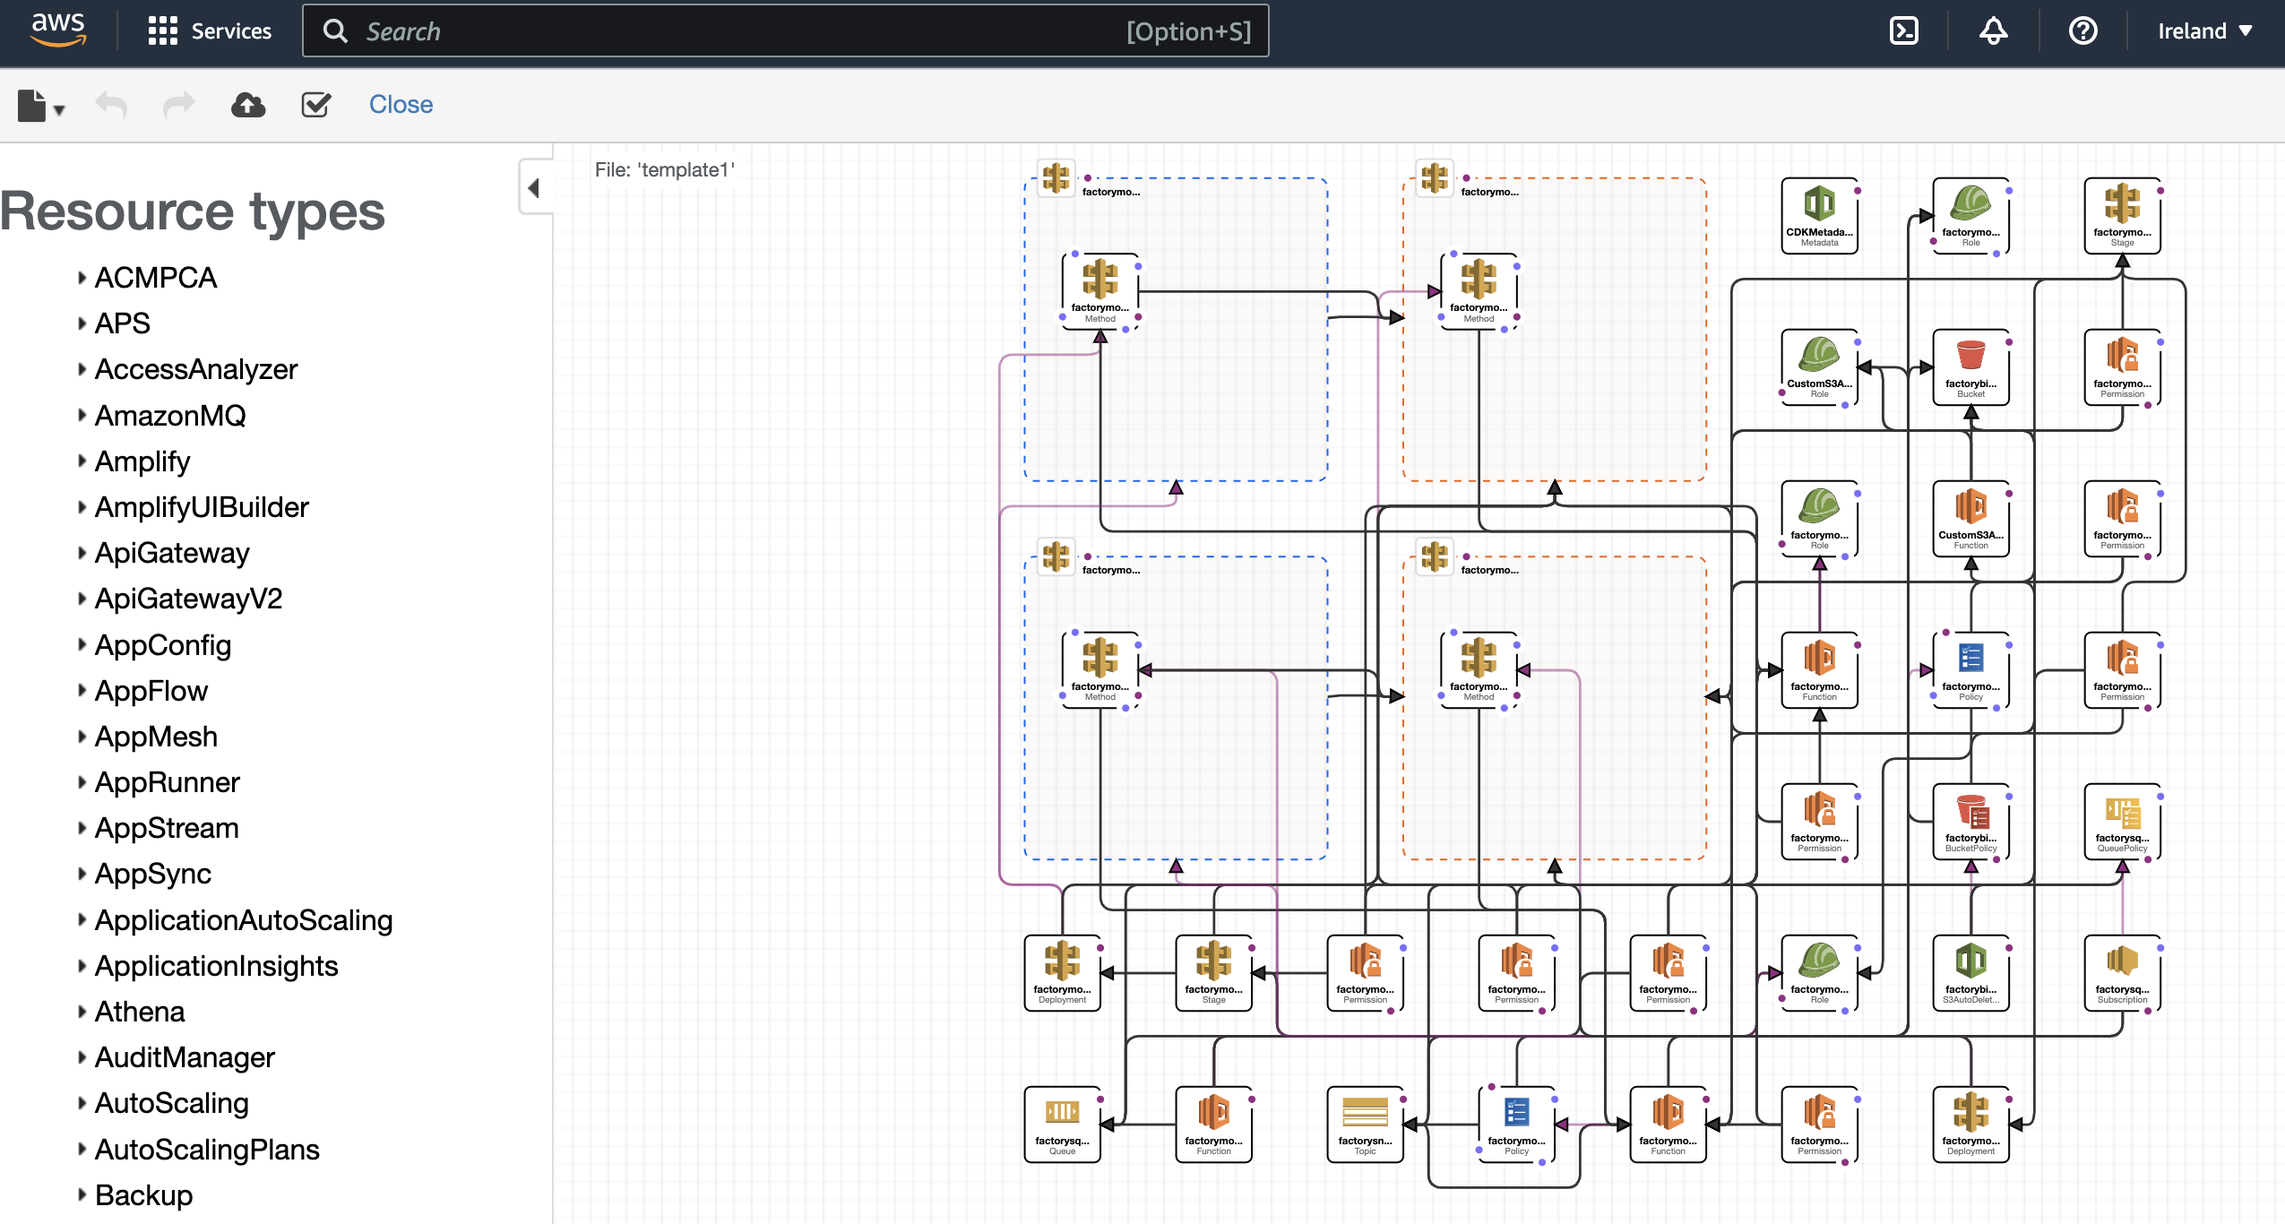
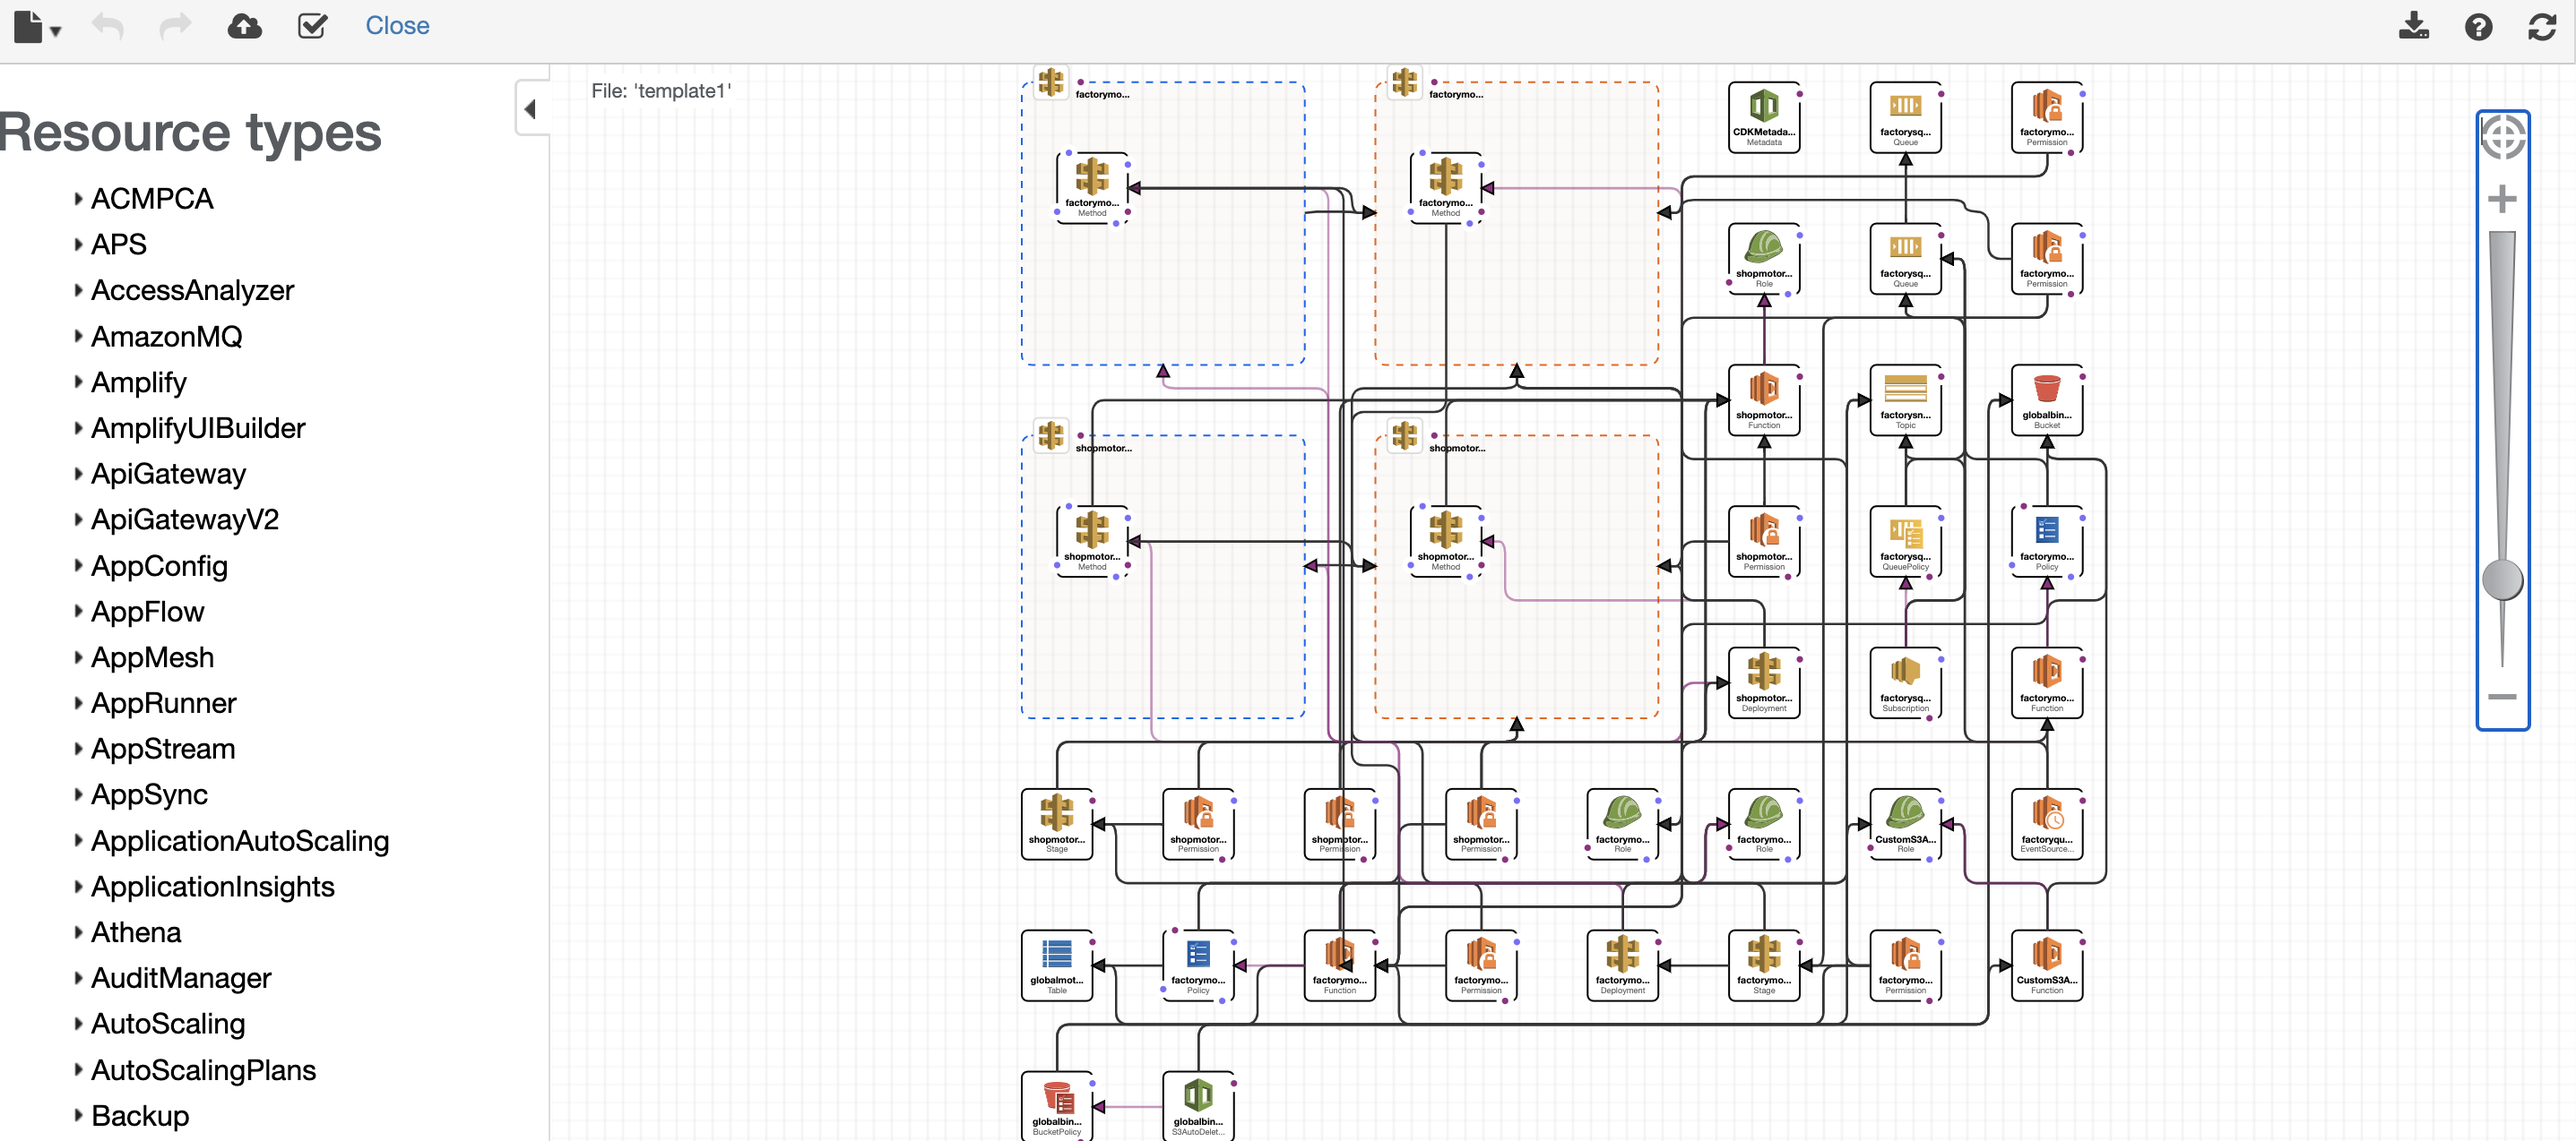
Add DynamoDB

diff --git a/motorshop-cdk/lib/motorshop-cdk-stack.ts b/motorshop-cdk/lib/motorshop-cdk-stack.ts
@@ -1,24 +1,43 @@
 import * as cdk from 'aws-cdk-lib';
-import {RemovalPolicy} from 'aws-cdk-lib';
+import {CfnOutput, RemovalPolicy} from 'aws-cdk-lib';
 import {Construct} from 'constructs';
 import * as s3 from 'aws-cdk-lib/aws-s3'
-import {RustFunction} from "rust.aws-cdk-lambda";
-import {EndpointType, LambdaRestApi} from "aws-cdk-lib/aws-apigateway";
+import {RustFunction} from 'rust.aws-cdk-lambda';
+import {EndpointType, LambdaRestApi} from 'aws-cdk-lib/aws-apigateway';
 import {Queue} from 'aws-cdk-lib/aws-sqs';
-import {Topic} from "aws-cdk-lib/aws-sns";
-import {SqsSubscription} from "aws-cdk-lib/aws-sns-subscriptions";
-import {EventSourceMapping} from "aws-cdk-lib/aws-lambda";
-import {PolicyStatement} from "aws-cdk-lib/aws-iam";
-
+import {Topic} from 'aws-cdk-lib/aws-sns';
+import {SqsSubscription} from 'aws-cdk-lib/aws-sns-subscriptions';
+import {EventSourceMapping} from 'aws-cdk-lib/aws-lambda';
+import {PolicyStatement} from 'aws-cdk-lib/aws-iam';
+import {aws_dynamodb as ddb} from 'aws-cdk-lib';
 export class MotorshopCdkStack extends cdk.Stack {
     constructor(scope: Construct, id: string, props?: cdk.StackProps) {
         super(scope, id, props);
 
         /**
+         * GLOBAL
+         */
+        const global = new Construct(this, 'global');
+        const bucket = new s3.Bucket(global, 'bindstone-motorshop-bucket',
+            {
+                bucketName: 'bindstone-motorshop-bucket',
+                removalPolicy: RemovalPolicy.DESTROY,
+                autoDeleteObjects: true,
+            });
+
+        const dynamo_db = new ddb.Table(global, 'motorshop-dynamo-db', {
+            tableName:'motorshop-dynamo-db',
+            partitionKey: { name: 'table_key', type: ddb.AttributeType.STRING },
+            sortKey: { name: 'data_key', type: ddb.AttributeType.STRING },
+            billingMode: ddb.BillingMode.PAY_PER_REQUEST,
+            removalPolicy: RemovalPolicy.DESTROY,
+        });
+
+        /**
          * FACTORY
          */
             // https://github.com/aws-samples/serverless-patterns/blob/main/sns-sqs-lambda-cdk/src/lib/sns-sqs-lambda-cdk.ts
-        const factory = new Construct(this, "factory");
+        const factory = new Construct(this, 'factory');
 
         const snsModelDesign = new Topic(factory, 'sns-model-design', {
             topicName: 'sns-model-design',
@@ -45,13 +64,6 @@ export class MotorshopCdkStack extends cdk.Stack {
             rawMessageDelivery: true
         }));
 
-        const bucket = new s3.Bucket(factory, 'bindstone-motorshop-bucket',
-            {
-                bucketName: 'bindstone-motorshop-bucket',
-                removalPolicy: RemovalPolicy.DESTROY,
-                autoDeleteObjects: true,
-            });
-
         let publishModelLambda = new RustFunction(factory, 'motorshop-publish-model-lambda', {
             functionName: 'motorshop-publish-model-lambda',
             directory: '../',
@@ -59,14 +71,16 @@ export class MotorshopCdkStack extends cdk.Stack {
             memorySize: 128,
             setupLogging: true,
             environment: {
-                REBUILD_VERSION: "1",
+                REBUILD_VERSION: '1',
                 SNS_TOPIC_ARN: snsModelDesign.topicArn,
                 SNS_TOPIC_NAME: snsModelDesign.topicName,
-                RUST_BACKTRACE: "1",
-                RUST_LOG: "info",
+                DYNAMO_TABLE: dynamo_db.tableName,
+                RUST_BACKTRACE: '1',
+                RUST_LOG: 'info',
             },
         });
         snsModelDesign.grantPublish(publishModelLambda);
+        dynamo_db.grantWriteData(publishModelLambda);
 
         let createProspectLambda = new RustFunction(factory, 'motorshop-create-prospect-lambda', {
             functionName: 'motorshop-create-prospect-lambda',
@@ -75,13 +89,14 @@ export class MotorshopCdkStack extends cdk.Stack {
             memorySize: 128,
             setupLogging: true,
             environment: {
-                REBUILD_VERSION: "1",
+                REBUILD_VERSION: '1',
                 BUCKET_NAME: bucket.bucketName,
-                RUST_BACKTRACE: "1",
-                RUST_LOG: "info",
+                RUST_BACKTRACE: '1',
+                RUST_LOG: 'info',
             },
         });
 
+        bucket.grantReadWrite(createProspectLambda);
         createProspectLambda.addToRolePolicy(new PolicyStatement({
             actions: [
                 'sqs:GetQueueAttributes',
@@ -106,38 +121,40 @@ export class MotorshopCdkStack extends cdk.Stack {
 
         sqsProspectGenerator.grant(createProspectLambda);
 
-        let orderLambda = new RustFunction(factory, 'motorshop-order-lambda', {
-            functionName: 'motorshop-order-lambda',
-            directory: '../',
-            package: 'motorshop-order-lambda',
-            memorySize: 128,
-            setupLogging: true,
-            environment: {
-                RUST_BACKTRACE: "1",
-                RUST_LOG: "info",
-                REBUILD_VERSION: "1",
-            },
-        });
-
         let publishModelApi = new LambdaRestApi(factory, 'motorshop-publish-model-api', {
             handler: publishModelLambda,
             restApiName: 'motorshop-publish-model-api',
             endpointConfiguration: {types: [EndpointType.REGIONAL]},
         });
 
-        // AUTHORISATIONS
-        // @ts-ignore
-        const grant = bucket.grantReadWrite(createProspectLambda);
-
         /**
          * SHOP
          */
-        const shop = new Construct(this, "shop");
+        const shop = new Construct(this, 'shop');
+
+        let orderLambda = new RustFunction(shop, 'motorshop-order-lambda', {
+            functionName: 'motorshop-order-lambda',
+            directory: '../',
+            package: 'motorshop-order-lambda',
+            memorySize: 128,
+            setupLogging: true,
+            environment: {
+                RUST_BACKTRACE: '1',
+                RUST_LOG: 'info',
+                REBUILD_VERSION: '1',
+            },
+        });
 
         let orderApi = new LambdaRestApi(shop, 'motorshop-order-lambda-api', {
             handler: orderLambda,
             restApiName: 'motorshop-order-api',
             endpointConfiguration: {types: [EndpointType.REGIONAL]},
         });
+
+        /**
+         * PRINT
+         */
+        new CfnOutput(this, 'Dynamo DB', { value: dynamo_db.tableName });
+        new CfnOutput(this, 'Bucket', { value: bucket.bucketArn });
     }
 }

diff --git a/motorshop-publish-model-lambda/src/main.rs b/motorshop-publish-model-lambda/src/main.rs
@@ -1,4 +1,7 @@
 use std::env;
+use aws_sdk_dynamodb::{
+    types::AttributeValue, Client
+};
 
 use lambda_http::{Body, Error, Request, RequestExt, Response, run, service_fn};
 use rusoto_core::{Region};
@@ -37,6 +40,11 @@ async fn function_handler(event: Request) -> Result<Response<Body>, Error> {
         None => panic!("SNS_TOPIC_NAME is not set")
     };
 
+    let dynamo_table = match env::var_os("DYNAMO_TABLE") {
+        Some(v) => v.into_string().unwrap(),
+        None => panic!("DYNAMO_TABLE is not set")
+    };
+
     let body = event.body();
     let prospect_string = std::str::from_utf8(body).expect("invalid utf-8 sequence");
 
@@ -55,6 +63,21 @@ async fn function_handler(event: Request) -> Result<Response<Body>, Error> {
             return Ok(resp);
         }
     };
+
+    // Store DB
+    let config = aws_config::load_from_env().await;
+    let client = Client::new(&config);
+
+    let request = client
+        .put_item()
+        .table_name(dynamo_table)
+        .item("table_key", AttributeValue::S(String::from("catalog".to_string())))
+        .item("data_key", AttributeValue::S(prospect.name.clone()))
+        .item("name", AttributeValue::S(prospect.name.clone()))
+        .item("model", AttributeValue::S(prospect.model.clone()));
+    request.send().await?;
+
+    // SEND SNS Message
 
     let send_message = serde_json::to_string(&prospect).unwrap();
     info!(send_message = ?send_message, "Send Prospect to SNS");

diff --git a/motorshop-create-prospect-lambda/src/main.rs b/motorshop-create-prospect-lambda/src/main.rs
@@ -28,16 +28,14 @@ async fn main() -> Result<(), Error> {
 }
 
 async fn function_handler(sqs_event: LambdaEvent<SqsEventObj<Prospect>>) -> Result<SqsBatchResponse, Error> {
-    info!("{:?}", sqs_event);
-
-    let prospect = &sqs_event.payload.records[0].body;
-
-    let doc_name = generate_prospect(prospect.clone());
 
     let bucket_name = match env::var_os("BUCKET_NAME") {
         Some(v) => v.into_string().unwrap(),
         None => panic!("$BUCKET_NAME is not set")
     };
+
+    let prospect = &sqs_event.payload.records[0].body;
+    let doc_name = generate_prospect(prospect.clone());
 
     let fname = format!("{}-{}.pdf", prospect.name, prospect.model);
 

diff --git a/readme.md b/readme.md
@@ -24,3 +24,42 @@ Creation:
 ```
 cdk init app --language=typescript
 ```
+
+## Publish Cloud Foundation Package
+
+```
+cdk deploy 
+```
+
+![Alt text](./images/overview.png?raw=true "Cloud Formation")
+
+## Test
+
+```
+POST https://???????????.execute-api.eu-west-1.amazonaws.com/prod/
+Content-Type: application/json
+
+{
+  "name": "Peppo",
+  "model": "V1 Turbo"
+}
+```
+
+The following points could be investigated:
+
+* CloudWatch (Logs)
+* SNS / SQS / Lambda (Logs)
+* S3 (Bucket containing a PDF)
+* DynamoDB containing a Data Entry
+
+![Alt text](./images/publish_model.png?raw=true "Publish Model")
+
+![Alt text](./images/create_prospect.png?raw=true "Create Prospect")
+
+## Remove / Destroy Artifacts
+
+```
+cdk destroy
+```
+
+Validate that all resources are removed from AWS.
